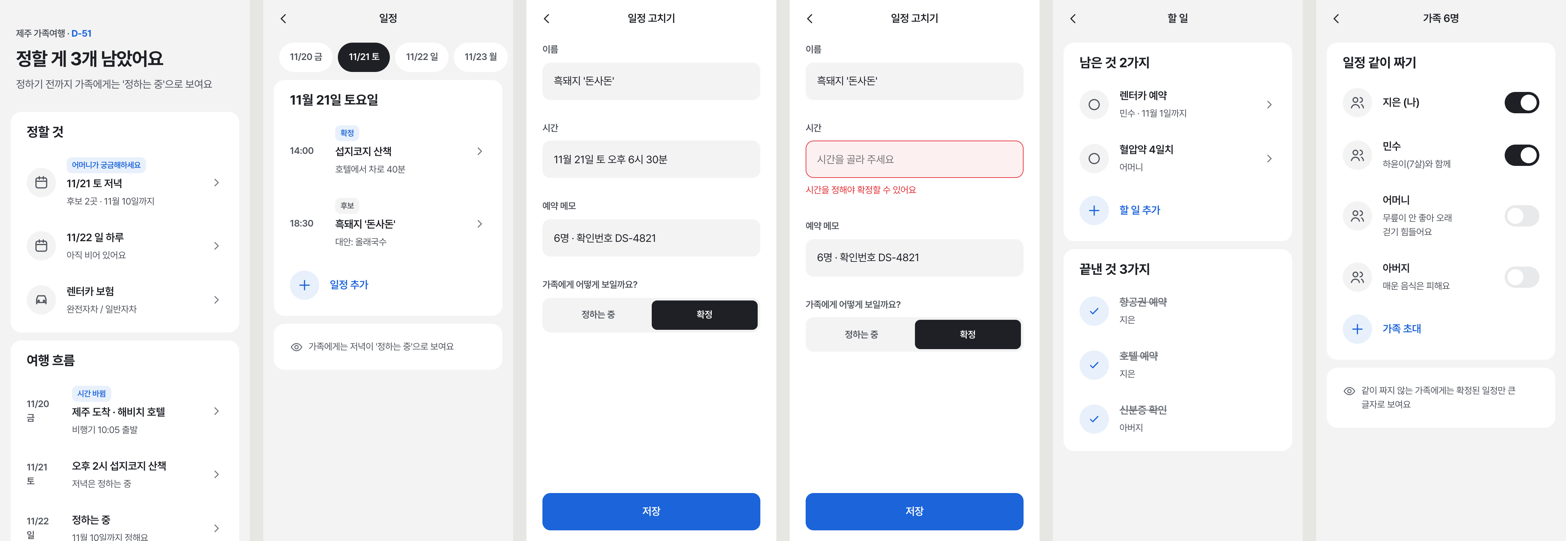
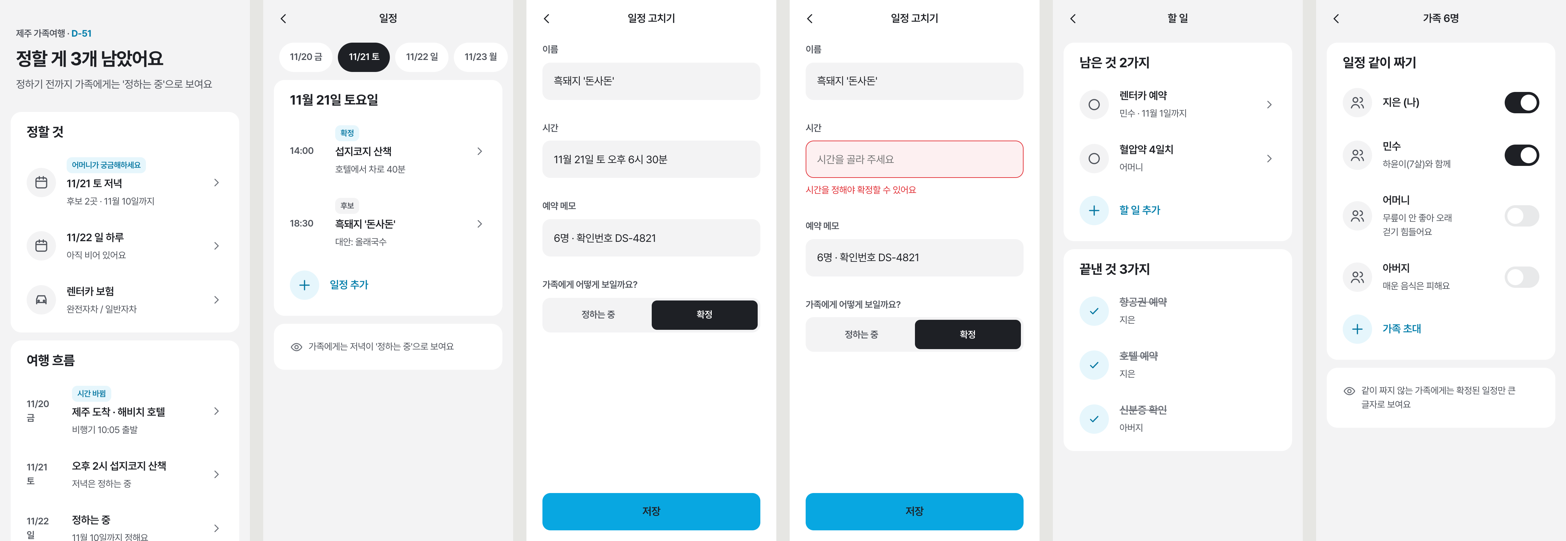
포인트 색을 밝은 하늘색 #08A7E1로 (토스 파랑 대체)
- 토스 파랑은 금융 신뢰감이 강해 가족여행과 맞지 않음 → 청록·테라코타·초록 비교 후
  uibowl 여행 앱 레퍼런스에서 추출한 하늘색을 그대로 채택(scope 문서에 출처·주의 기록)
- 흰 글자 대비 부족 → derive.py가 색은 유지하고 버튼 글자를 짙은 색으로(5.9:1)
- fetch_refs.py: 이미지 직접 다운로드 403 → 브라우저 세션으로 받기(오버레이·차단 회피)
- 예제 미리보기 갱신

diff --git a/.claude/skills/oss-design-harness/foundation/examples/tokens.css b/.claude/skills/oss-design-harness/foundation/examples/tokens.css
@@ -1,4 +1,4 @@
-/* foundation tokens — derive.py --brand #1B64DA --tone neutral --shape normal --density comfy --font pretendard
+/* foundation tokens — derive.py --brand #08A7E1 --tone neutral --shape normal --density comfy --font pretendard
    이 파일은 생성물이다. 직접 고치지 말고 파라미터를 바꿔 다시 만든다. */
 @import url('https://cdn.jsdelivr.net/gh/orioncactus/pretendard@v1.3.9/dist/web/static/pretendard.min.css');
 
@@ -10,11 +10,11 @@
   --c-text-1: #1E2025;
   --c-text-2: #4E525A;
   --c-text-3: #6A6E76;
-  --c-brand: #1B64DA;
-  --c-on-brand: #FFFFFF;
-  --c-brand-text: #1B64DA;
-  --c-brand-tint: #E8F0FB;
-  --c-brand-tint-text: #1B64DA;
+  --c-brand: #08A7E1;
+  --c-on-brand: #1E2025;
+  --c-brand-text: #067FAB;
+  --c-brand-tint: #E6F6FC;
+  --c-brand-tint-text: #0677A1;
   --c-danger: #E12D33;
   --c-danger-tint: #FDF0F1;
 

diff --git a/.claude/skills/oss-design-harness/scripts/fetch_refs.py b/.claude/skills/oss-design-harness/scripts/fetch_refs.py
@@ -1,7 +1,7 @@
 """uibowl.io 에서 한국 앱 실제 화면 스크린샷을 받아온다.
 python3 fetch_refs.py <out_dir> 토스 카카오톡 당근 --n 4
 """
-import sys, pathlib, urllib.parse, urllib.request, argparse
+import pathlib, urllib.parse, argparse
 from playwright.sync_api import sync_playwright
 ap = argparse.ArgumentParser(); ap.add_argument("out"); ap.add_argument("apps", nargs="+"); ap.add_argument("--n", type=int, default=4)
 a = ap.parse_args(); out = pathlib.Path(a.out); out.mkdir(parents=True, exist_ok=True)
@@ -11,14 +11,15 @@ with sync_playwright() as p:
         try:
             pg.goto("https://uibowl.io/name/" + urllib.parse.quote(app), wait_until="networkidle", timeout=30000)
             pg.wait_for_timeout(1500)
-            srcs = pg.eval_on_selector_all("img", "els=>els.filter(e=>e.naturalHeight>e.naturalWidth*1.5).map(e=>e.src)")
+            srcs = pg.eval_on_selector_all("img", "els=>els.filter(e=>e.naturalHeight>e.naturalWidth*1.5 && e.naturalWidth>=200).map(e=>e.currentSrc||e.src)")
         except Exception as e:
             print(app, "실패", e); continue
-        for i, src in enumerate(srcs[:a.n]):
-            q = urllib.parse.parse_qs(urllib.parse.urlparse(src).query).get("url", [src])[0]
-            f = out / f"{app}-{i}.jpg"
-            q = urllib.parse.quote(q, safe=":/")
-            req = urllib.request.Request(q, headers={"User-Agent": "Mozilla/5.0"})
-            f.write_bytes(urllib.request.urlopen(req, timeout=20).read())
-            print("saved", f)
+        if not srcs: print(app, "화면 없음"); continue
+        for i, src in enumerate(srcs[:a.n]):   # 브라우저 세션으로 받는다(쿠키·리퍼러 포함 → 403 회피, 오버레이 영향 없음)
+            try:
+                r = pg.request.get(src, headers={"Referer": "https://uibowl.io/"})
+                if not r.ok: print(app, i, "HTTP", r.status); continue
+                f = out / f"{app}-{i}.jpg"; f.write_bytes(r.body()); print("saved", f)
+            except Exception as e:
+                print(app, i, "받기 실패", e)
     b.close()

diff --git a/docs/scope-family-trip.md b/docs/scope-family-trip.md
@@ -50,3 +50,10 @@
 ## 하네스 교훈
 
 "변경 사항 전달"이라는 PRD 한 줄이 v7에서 **보내기 버튼·소식 화면 4장**으로 변했다(기능화 편향). 화면 목록 전에 여정표를 쓰고, **사용자에게 새 할 일을 만드는 해법은 마지막 수단**으로 둔다 — [design-criteria §11](./design-criteria.md).
+
+## 색 (10/1 결정)
+
+- 포인트 색 **`#08A7E1` 밝은 하늘색** — 토스 파랑(`#1B64DA`)은 금융의 신뢰감이 강해 가족여행 안내서와 맞지 않았다. 청록·테라코타·초록을 비교한 뒤, uibowl 여행 앱 레퍼런스(마이리얼트립 검색 결과 화면)에서 추출한 하늘색을 그대로 쓰기로 했다.
+  - 주의: 이 값은 uibowl의 "마이리얼트립" 결과 중 좌석 선택 화면에서 추출한 색이라, 마이리얼트립 공식 브랜드 색과 다를 수 있다.
+- 흰 글자 대비가 부족해(2.7:1) 색을 바꾸지 않고 **버튼 글자를 짙은 색**으로 둔다(5.9:1). 글자로 쓰는 하늘색은 `#067FAB`로 자동 계산.
+- 표면 톤은 중립(흰·연회색).
